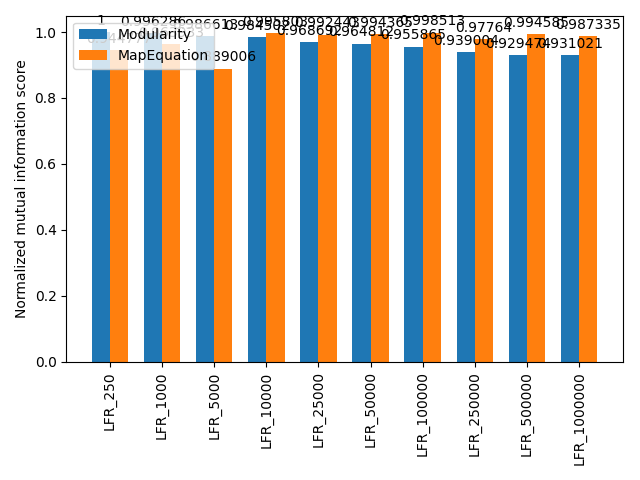
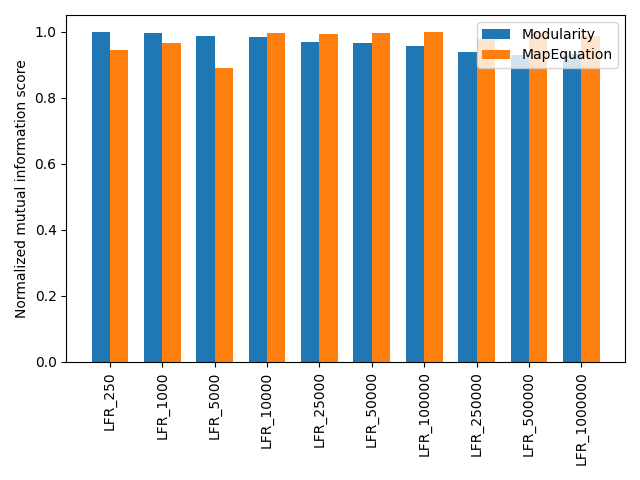
final changes before draft

diff --git a/Plotting.py b/Plotting.py
@@ -70,14 +70,15 @@ def plot_found_communities_bar(header, data, name):
     ax.set_xticks(x, labels, rotation = "vertical")
     ax.legend()
 
-    ax.bar_label(rects1, padding=3)
-    ax.bar_label(rects2, padding=3)
-    ax.bar_label(rects3, padding=3)
+    # Bar labels overlap unfortunately
+    # ax.bar_label(rects1, padding=3)
+    # ax.bar_label(rects2, padding=3)
+    # ax.bar_label(rects3, padding=3)
 
     fig.tight_layout()
 
     #plt.show()
-    plt.savefig(os.path.join("Results", "Graphs", name + "_com.png"))
+    plt.savefig(os.path.join("Plots", name + "_com.png"))
 
 
 def plot_scores_bar(header, data, name):
@@ -104,13 +105,14 @@ def plot_scores_bar(header, data, name):
     ax.set_xticks(x, labels, rotation = "vertical")
     ax.legend()
 
-    ax.bar_label(rects1, padding=3)
-    ax.bar_label(rects2, padding=3)
+    # Bar labels overlap unfortunately
+    #ax.bar_label(rects1, padding=3)
+    #ax.bar_label(rects2, padding=3)
 
     fig.tight_layout()
 
     #plt.show()
-    plt.savefig(os.path.join("Results", "Graphs", name + "_scoresBar.png"))
+    plt.savefig(os.path.join("Plots", name + "_scoresBar.png"))
 
 def plot_scores_line(header, data, name):
     # Transpose the data
@@ -140,7 +142,7 @@ def plot_scores_line(header, data, name):
     fig.tight_layout()
 
     #plt.show()
-    plt.savefig(os.path.join("Results", "Graphs", name + "_scoresLine.png"))
+    plt.savefig(os.path.join("Plots", name + "_scoresLine.png"))
 
 def plot_times_bar(header, data, name):
     # Transpose the data
@@ -166,16 +168,20 @@ def plot_times_bar(header, data, name):
     ax.set_xticks(x, labels, rotation = "vertical")
     ax.legend()
 
-    ax.bar_label(rects1, padding=3)
-    ax.bar_label(rects2, padding=3)
+    # Bar labels overlap unfortunately
+    #ax.bar_label(rects1, padding=3)
+    #ax.bar_label(rects2, padding=3)
 
     fig.tight_layout()
 
     #plt.show()
     plt.savefig(os.path.join("Plots", name + "_times.png"))
 
+# Make sure destination folder exists
+os.makedirs("Plots", exist_ok = True)
+
 for name, _ in Parameters.params.items():
-    (headers, data) = read_data(os.path.join("Results", name, name + ".csv"))
+    (headers, data) = read_data(os.path.join("Results", name + ".csv"))
 
     data = get_avg(data)
 

diff --git a/Run_test.py b/Run_test.py
@@ -15,15 +15,15 @@ import Scoring
 
 PRINT_INFO = False
 DRAW_GRAPH = False
-MEASURE = "MODULARITY" # "MODULARITY" / "MAPEQUATION" / "SIGCLUST" / "ALL"
-SAVE_RESULTS = False
+MEASURE = "ALL" # "MODULARITY" / "MAPEQUATION" / "SIGCLUST" / "ALL"
+SAVE_RESULTS = True
 VERBOSE = True
-TESTLFR = True # LFR graphs get loaded according to the parameters in Parameters.py
+TESTLFR = False # LFR graphs get loaded according to the parameters in Parameters.py
 
 # To set when testing separate networks
-LOCATION = os.path.join("Graphs", "Real", "EU-email")
-FILE = "email-Eu-core"
-LABELSFILE = "email-Eu-corelabels.txt"
+LOCATION = os.path.join("Graphs", "Real", "Youtube")
+FILE = "com-youtube"
+LABELSFILE = "com-youtubecmty.txt"
 
 def run_tests(size, name, i):
     if TESTLFR:

diff --git a/Parameters.py b/Parameters.py
@@ -5,8 +5,8 @@ SIZES = [250,1000,5000,10000,25000,50000,100000,250000,500000,1000000]
 
 # Dense network with varying communities
 dense_varying = {
-"tau1" : 2.8, # Power law exponent for degree distribution (>1)
-"tau2" : 1.8, # Power law exponent for community size distribution (>1)
+"tau1" : 2.8, # Power law exponent for degree distribution ([2,3])
+"tau2" : 1.8, # Power law exponent for community size distribution ([1,2])
 "mu" : 0.15, # Fraction of edges to other communities ([0,1])
 "average_degree" : 5, # Average degree of nodes in the network ([0,n])
 "min_degree" : None, # Minimum degree of nodes in the network ([0,n])
